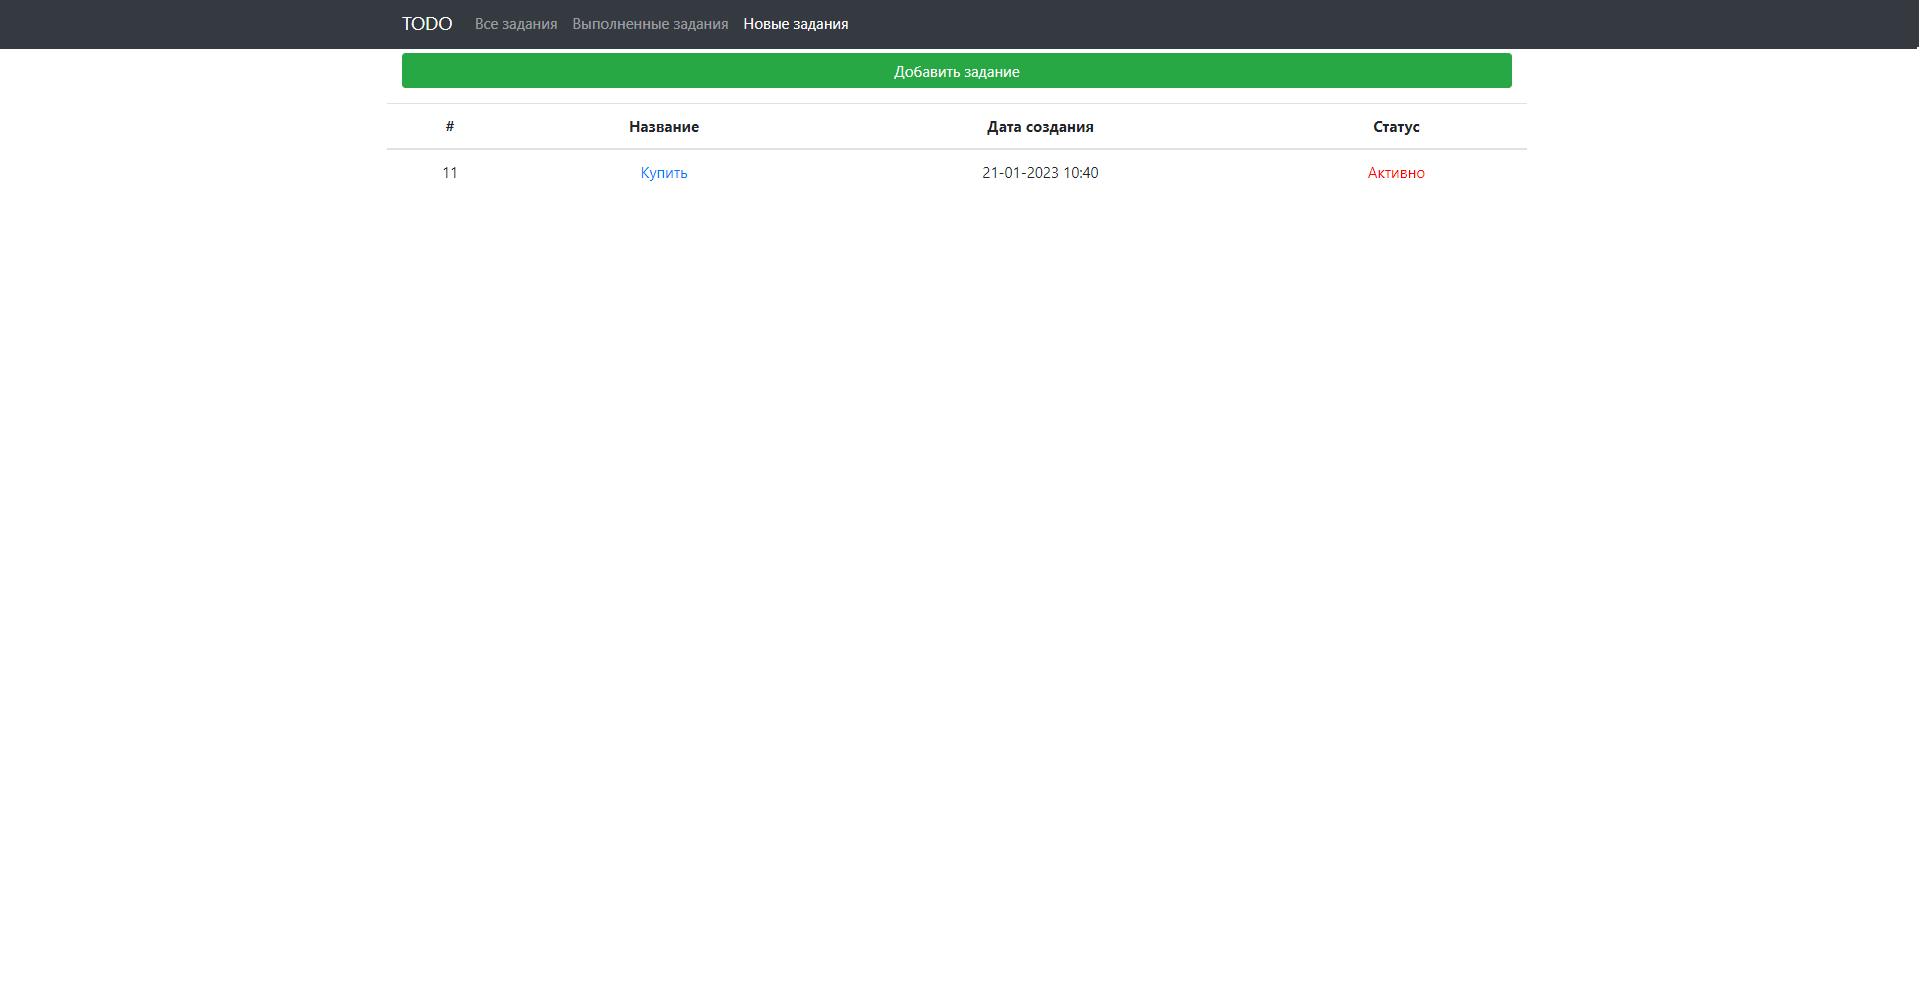
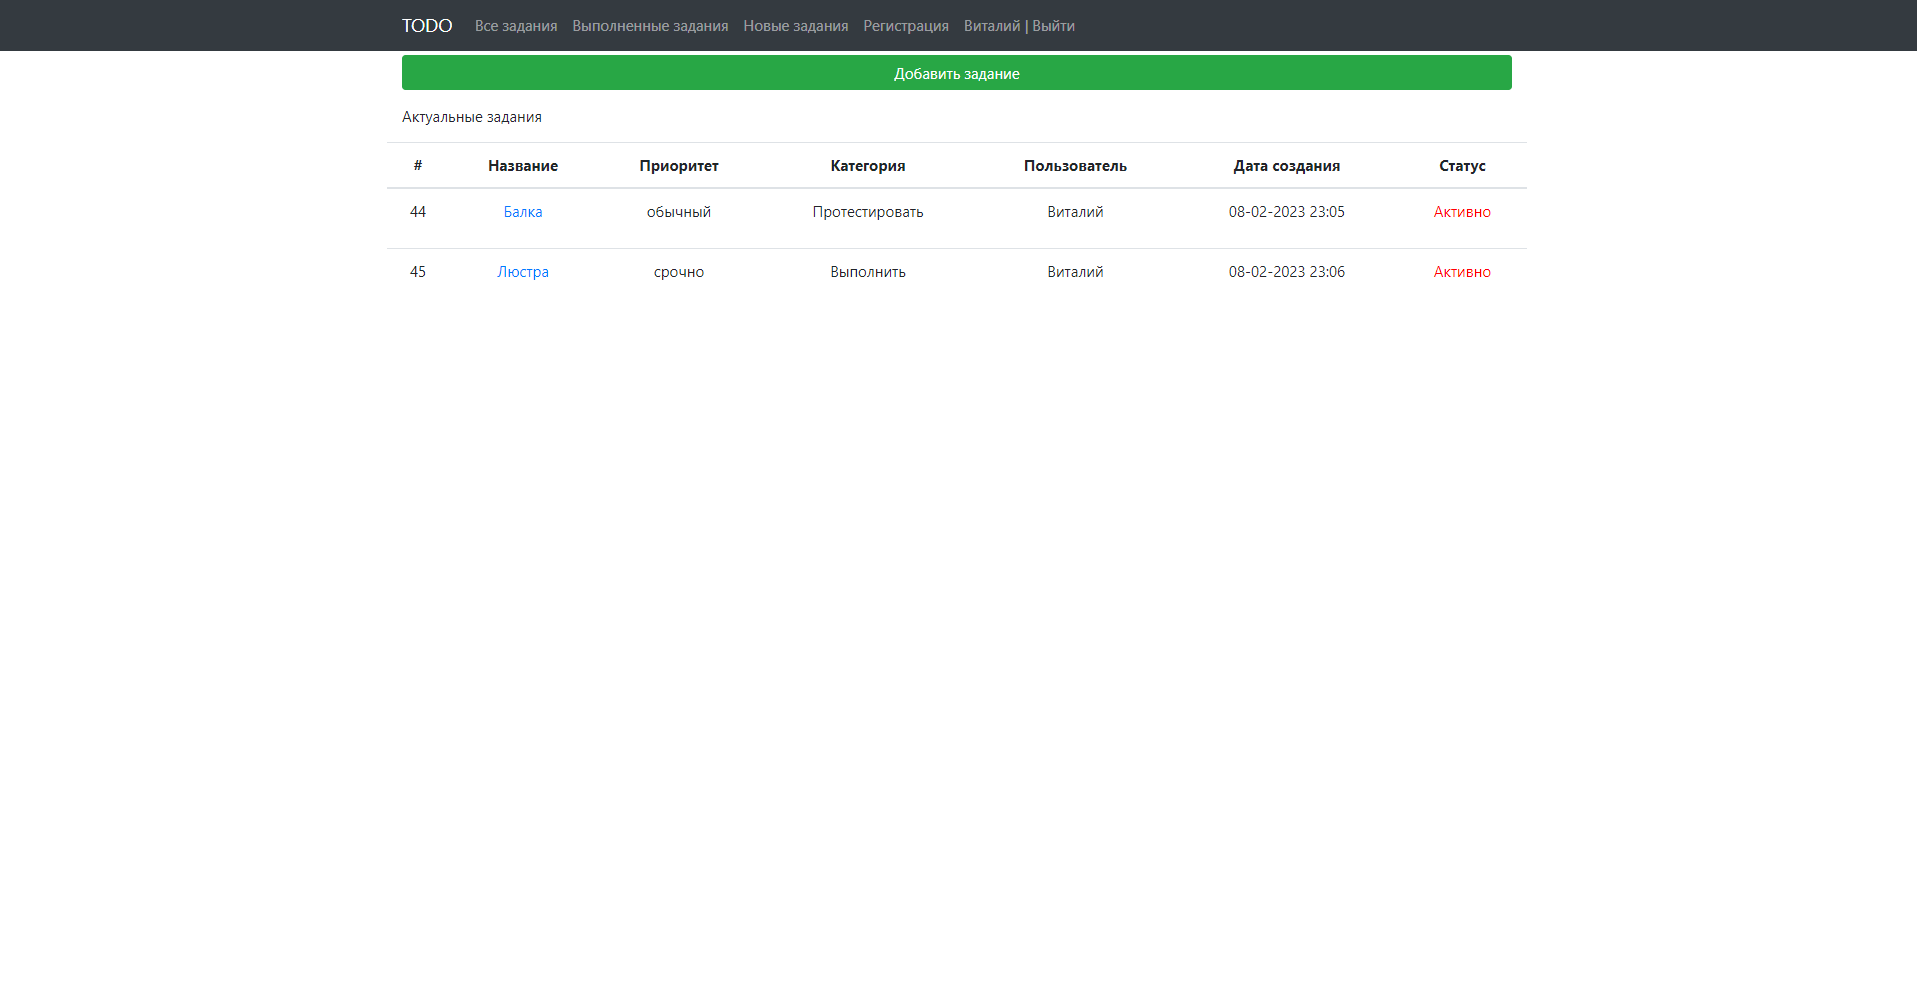
редактирование README.md, написание тестов

diff --git a/src/test/java/ru/job4j/todo/repository/TaskRepositoryTest.java b/src/test/java/ru/job4j/todo/repository/TaskRepositoryTest.java
@@ -1,0 +1,136 @@
+package ru.job4j.todo.repository;
+
+import org.hibernate.Session;
+import org.hibernate.SessionFactory;
+import org.hibernate.boot.MetadataSources;
+import org.hibernate.boot.registry.StandardServiceRegistryBuilder;
+import org.junit.jupiter.api.AfterEach;
+import org.junit.jupiter.api.Test;
+import ru.job4j.todo.model.Category;
+import ru.job4j.todo.model.Priority;
+import ru.job4j.todo.model.Task;
+
+import java.util.List;
+import java.util.Optional;
+
+import static org.assertj.core.api.Assertions.*;
+
+class TaskRepositoryTest {
+
+    private final SessionFactory sf = new MetadataSources(
+            new StandardServiceRegistryBuilder().configure().build()
+    ).buildMetadata().buildSessionFactory();
+    private final CRUDRepositoryInterface crudRepository = new CRUDRepository(sf);
+    private final TaskRepositoryInterface taskRepository = new TaskRepository(crudRepository);
+    private final PriorityRepositoryInterface priorityRepository =
+            new PriorityRepository(crudRepository);
+    private final CategoryRepositoryInterface categoryRepository =
+            new CategoryRepository(crudRepository);
+
+    @AfterEach
+    public void clear() {
+        Session session = sf.openSession();
+        session.beginTransaction();
+        session.createQuery("delete Task").executeUpdate();
+        session.getTransaction().commit();
+        session.close();
+    }
+
+    @Test
+    public void whenAdd() {
+        Task task = new Task();
+        task.setName("task");
+        task.setDescription("desc");
+        Optional<Task> rsl = taskRepository.add(task);
+        assertThat(rsl.get().getName()).isEqualTo("task");
+    }
+
+    @Test
+    public void whenUpdate() {
+        Task task = new Task();
+        task.setName("task");
+        task.setDescription("desc");
+        taskRepository.add(task);
+
+        task.setName("update");
+        boolean rsl = taskRepository.update(task);
+        assertThat(rsl).isTrue();
+    }
+
+    @Test
+    public void whenDelete() {
+        Task task = new Task();
+        task.setName("task");
+        task.setDescription("desc");
+        taskRepository.add(task);
+
+        boolean rsl = taskRepository.delete(task.getId());
+        assertThat(rsl).isTrue();
+    }
+
+    @Test
+    public void whenFindAll() {
+        Priority priority = priorityRepository.findById(1).orElse(new Priority());
+        List<Category> categories = categoryRepository.findByID(List.of(1));
+
+        Task task1 = new Task();
+        task1.setName("task1");
+        task1.setDescription("desc1");
+        task1.setPriority(priority);
+        task1.setCategories(categories);
+        task1.setDescription("desc1");
+        taskRepository.add(task1);
+
+        Task task2 = new Task();
+        task2.setName("task2");
+        task2.setDescription("desc2");
+        task2.setPriority(priority);
+        task2.setCategories(categories);
+        taskRepository.add(task2);
+
+        List<Task> rsl = taskRepository.findAll();
+        List<Task> expect = List.of(task1, task2);
+        assertThat(rsl).isEqualTo(expect);
+    }
+
+    @Test
+    public void whenFindByDone() {
+        Priority priority = priorityRepository.findById(1).orElse(new Priority());
+        List<Category> categories = categoryRepository.findByID(List.of(1));
+
+        Task task1 = new Task();
+        task1.setName("task1");
+        task1.setDescription("desc1");
+        task1.setPriority(priority);
+        task1.setCategories(categories);
+        task1.setDone(true);
+        taskRepository.add(task1);
+
+        Task task2 = new Task();
+        task2.setName("task2");
+        task2.setDescription("desc2");
+        task2.setPriority(priority);
+        task2.setCategories(categories);
+        task2.setDone(false);
+        taskRepository.add(task2);
+
+        List<Task> rsl1 = taskRepository.findByDone(true);
+        List<Task> expect1 = List.of(task1);
+        List<Task> rsl2 = taskRepository.findByDone(false);
+        List<Task> expect2 = List.of(task2);
+        assertThat(rsl1).isEqualTo(expect1);
+        assertThat(rsl2).isEqualTo(expect2);
+    }
+
+    @Test
+    public void whenDineTrue() {
+        Task task1 = new Task();
+        task1.setName("task1");
+        task1.setDescription("desc1");
+        task1.setDone(false);
+        taskRepository.add(task1);
+
+        boolean rsl = taskRepository.doneTrue(task1.getId());
+        assertThat(rsl).isTrue();
+    }
+}

diff --git a/src/test/java/ru/job4j/todo/controller/UserControllerTest.java b/src/test/java/ru/job4j/todo/controller/UserControllerTest.java
@@ -1,0 +1,89 @@
+package ru.job4j.todo.controller;
+
+import org.junit.jupiter.api.Test;
+import org.mockito.Mockito;
+import org.springframework.ui.Model;
+import ru.job4j.todo.model.User;
+import ru.job4j.todo.service.UserServiceInterface;
+import ru.job4j.todo.util.TimeZoneUser;
+import javax.servlet.http.HttpSession;
+import java.util.Optional;
+
+import static org.assertj.core.api.Assertions.*;
+import static org.mockito.Mockito.*;
+
+class UserControllerTest {
+
+    @Test
+    public void whenRegistration() {
+        UserServiceInterface userService = mock(UserServiceInterface.class);
+        Model model = mock(Model.class);
+        HttpSession session = mock(HttpSession.class);
+        UserController userController = new UserController(userService);
+        User user = new User(0, "name", "login", "pass", null);
+
+        String rsl = userController.registration(model, session);
+        when(session.getAttribute("user")).thenReturn(new User());
+
+        verify(model).addAttribute("user", user);
+        verify(model).addAttribute("userZones", TimeZoneUser.getZone());
+        assertThat(rsl).isEqualTo("users/registration");
+    }
+
+    @Test
+    public void whenAddUser() {
+        UserServiceInterface userService = mock(UserServiceInterface.class);
+        HttpSession session = mock(HttpSession.class);
+        UserController userController = new UserController(userService);
+        User user = new User(0, "name", "login", "pass", null);
+
+        when(userService.add(Mockito.any(User.class))).thenReturn(Optional.of(user));
+        String rsl = userController.addUser(user, session);
+
+        verify(userService).add(user);
+        assertThat(rsl).isEqualTo("redirect:/tasks/showMessage");
+    }
+
+    @Test
+    public void whenAuthorization() {
+        UserServiceInterface userService = mock(UserServiceInterface.class);
+        Model model = mock(Model.class);
+        HttpSession session = mock(HttpSession.class);
+        UserController userController = new UserController(userService);
+        User user = new User(0, "name", "login", "pass", null);
+
+        when(session.getAttribute("user")).thenReturn(new User());
+        String rsl = userController.authorization(model, session);
+
+        verify(model).addAttribute("user", user);
+        assertThat(rsl).isEqualTo("users/authorization");
+    }
+
+    @Test
+    public void whenLogin() {
+        UserServiceInterface userService = mock(UserServiceInterface.class);
+        Model model = mock(Model.class);
+        HttpSession session = mock(HttpSession.class);
+        UserController userController = new UserController(userService);
+        User user = new User(0, "name", "login", "pass", null);
+
+        when(userService.findByLoginAndPassword(Mockito.any(String.class), Mockito.any(String.class)))
+                .thenReturn(Optional.of(user));
+        String rsl = userController.login(user, model, session);
+
+        verify(session).setAttribute("user", user);
+        assertThat(rsl).isEqualTo("redirect:/tasks/all");
+    }
+
+    @Test
+    public void whenLogout() {
+        HttpSession session = mock(HttpSession.class);
+        UserServiceInterface userService = mock(UserServiceInterface.class);
+        UserController userController = new UserController(userService);
+
+        String rsl = userController.logout(session);
+
+        verify(session).invalidate();
+        assertThat(rsl).isEqualTo("redirect:/users/authorization");
+    }
+}

diff --git a/src/test/java/ru/job4j/todo/repository/UserRepositoryTest.java b/src/test/java/ru/job4j/todo/repository/UserRepositoryTest.java
@@ -1,0 +1,50 @@
+package ru.job4j.todo.repository;
+
+import org.hibernate.Session;
+import org.hibernate.SessionFactory;
+import org.hibernate.boot.MetadataSources;
+import org.hibernate.boot.registry.StandardServiceRegistryBuilder;
+import org.junit.jupiter.api.AfterEach;
+import org.junit.jupiter.api.Test;
+import ru.job4j.todo.model.User;
+import java.util.Optional;
+import static org.assertj.core.api.Assertions.*;
+
+class UserRepositoryTest {
+
+    private final SessionFactory sf = new MetadataSources(
+            new StandardServiceRegistryBuilder().configure().build()
+    ).buildMetadata().buildSessionFactory();
+    private final CRUDRepositoryInterface crudRepository = new CRUDRepository(sf);
+    private final UserRepositoryInterface userRepository = new UserRepository(crudRepository);
+
+    @AfterEach
+    public void clear() {
+        Session session = sf.openSession();
+        session.beginTransaction();
+        session.createQuery("delete User").executeUpdate();
+        session.getTransaction().commit();
+        session.close();
+    }
+
+    @Test
+    public void whenAddUser() {
+        User user = new User(0, "name", "login", "pass", null);
+        Optional<User> rsl = userRepository.add(user);
+        assertThat(rsl.get().getName()).isEqualTo("name");
+    }
+
+    @Test
+    public void whenFindAll() {
+        User user1 = new User(0, "name1", "login1", "pass", null);
+        userRepository.add(user1);
+        User user2 = new User(0, "name2", "login2", "pass", null);
+        userRepository.add(user2);
+
+        Optional<User> rsl = userRepository.findByLoginAndPassword("login2", "pass");
+        Optional<User> rsl2 = userRepository.findByLoginAndPassword("log", "pass");
+
+        assertThat(rsl.get().getName()).isEqualTo("name2");
+        assertThat(rsl2.isEmpty()).isTrue();
+    }
+}

diff --git a/src/test/java/ru/job4j/todo/repository/CategoryRepositoryTest.java b/src/test/java/ru/job4j/todo/repository/CategoryRepositoryTest.java
@@ -1,0 +1,35 @@
+package ru.job4j.todo.repository;
+
+import org.hibernate.SessionFactory;
+import org.hibernate.boot.MetadataSources;
+import org.hibernate.boot.registry.StandardServiceRegistryBuilder;
+import org.junit.jupiter.api.Test;
+import ru.job4j.todo.model.Category;
+import static org.assertj.core.api.Assertions.*;
+import java.util.List;
+
+class CategoryRepositoryTest {
+
+    private final SessionFactory sf = new MetadataSources(
+            new StandardServiceRegistryBuilder().configure().build()
+    ).buildMetadata().buildSessionFactory();
+    private final CRUDRepositoryInterface crudRepository = new CRUDRepository(sf);
+    private final CategoryRepositoryInterface categoryRepository = new CategoryRepository(crudRepository);
+
+    @Test
+    public void whenFindByID() {
+        List<Category> rsl = categoryRepository.findByID(List.of(1));
+        System.out.println(rsl);
+        assertThat(rsl.get(0).getName()).isEqualTo("Выполнить");
+    }
+
+    @Test
+    public void whenFindAll() {
+        List<String> rsl = categoryRepository.findAll()
+                .stream()
+                .map(Category::getName)
+                .toList();
+        List<String> expect = List.of("Выполнить", "Исправить", "Протестировать");
+        assertThat(rsl).isEqualTo(expect);
+    }
+}

diff --git a/src/test/java/ru/job4j/todo/repository/PriorityRepositoryTest.java b/src/test/java/ru/job4j/todo/repository/PriorityRepositoryTest.java
@@ -1,0 +1,38 @@
+package ru.job4j.todo.repository;
+
+import org.hibernate.SessionFactory;
+import org.hibernate.boot.MetadataSources;
+import org.hibernate.boot.registry.StandardServiceRegistryBuilder;
+import org.junit.jupiter.api.Test;
+import ru.job4j.todo.model.Priority;
+import java.util.List;
+import java.util.Optional;
+
+import static org.assertj.core.api.Assertions.*;
+
+class PriorityRepositoryTest {
+
+    private final SessionFactory sf = new MetadataSources(
+            new StandardServiceRegistryBuilder().configure().build()
+    ).buildMetadata().buildSessionFactory();
+    private final CRUDRepositoryInterface crudRepository =
+            new CRUDRepository(sf);
+    private final PriorityRepositoryInterface priorityRepository =
+            new PriorityRepository(crudRepository);
+
+    @Test
+    public void whenFindById() {
+        Optional<Priority> rsl = priorityRepository.findById(1);
+        assertThat(rsl.get().getName()).isEqualTo("срочно");
+    }
+
+    @Test
+    public void whenFindAll() {
+        List<String> rsl = priorityRepository.findAll()
+                .stream()
+                .map(Priority::getName)
+                .toList();
+        List<String> expect = List.of("срочно", "обычный");
+        assertThat(rsl).isEqualTo(expect);
+    }
+}

diff --git a/README.md b/README.md
@@ -3,7 +3,8 @@
 # Описание проекта
 Проект приложения хранилища заданий.
 Виды:
-- Страница со списком всех заданий. В таблице отображаем имя, дату создания и состояние (выполнено или нет)
+- Страница со списком всех заданий. В таблице отображаем название, приоритет, категории, 
+создателя заданиля (пользователя), дату создания и статус ("выполнено" или "активно")
 Есть кнопка "Добавить задание". Три ссылки: Все, Выполненные, Новые. 
 - Все задания - отображаются все задания.
 - Только выполненые задания - отображаются только выполненые задания.
@@ -52,8 +53,14 @@ mvn spring-boot run
 ```
 
 # # Взаимодействие с приложением
+#### Страница регистрации
+![](img/registration.png)
+#### Страница авторизации
+![](img/authorization.png)
 #### Страница со всеми заданиями
 ![](img/allTask.png)
+#### Страница создания задания
+![](img/addTask.png)
 #### Страница с выполненными заданиями
 ![](img/doneSuccessTask.png)
 #### Страница с актуальными заданиями
